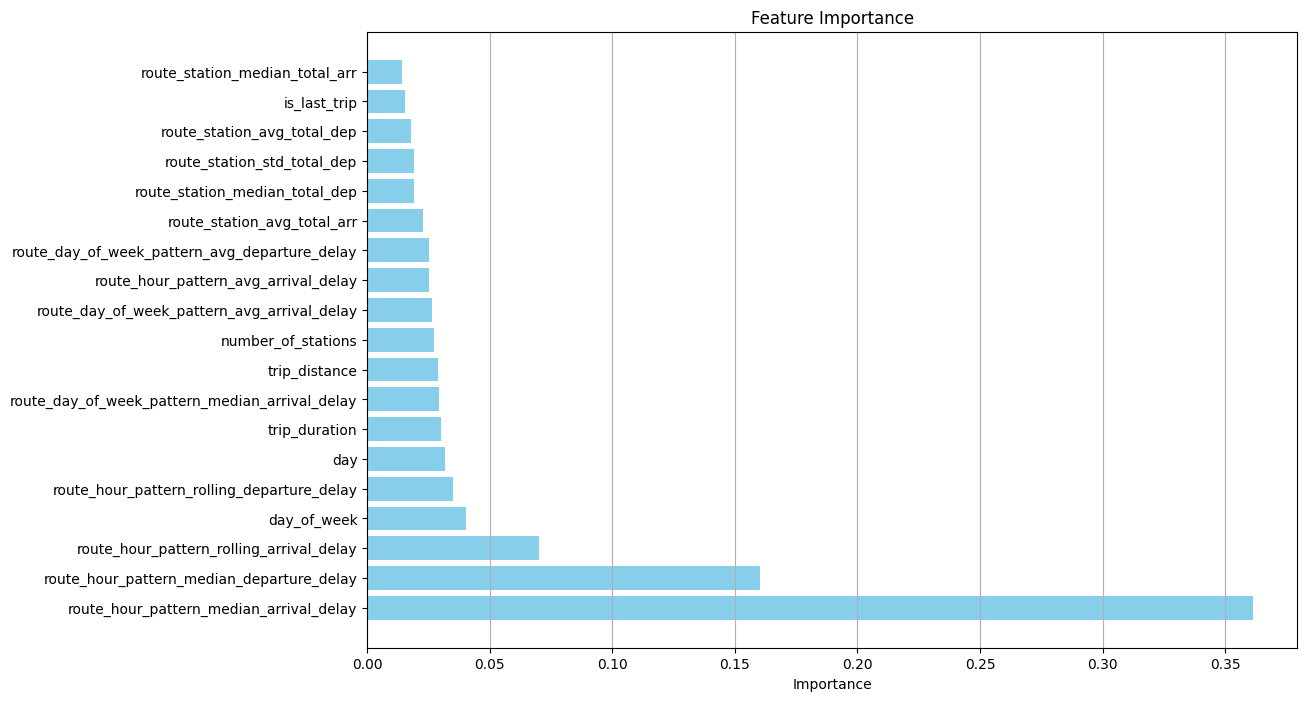
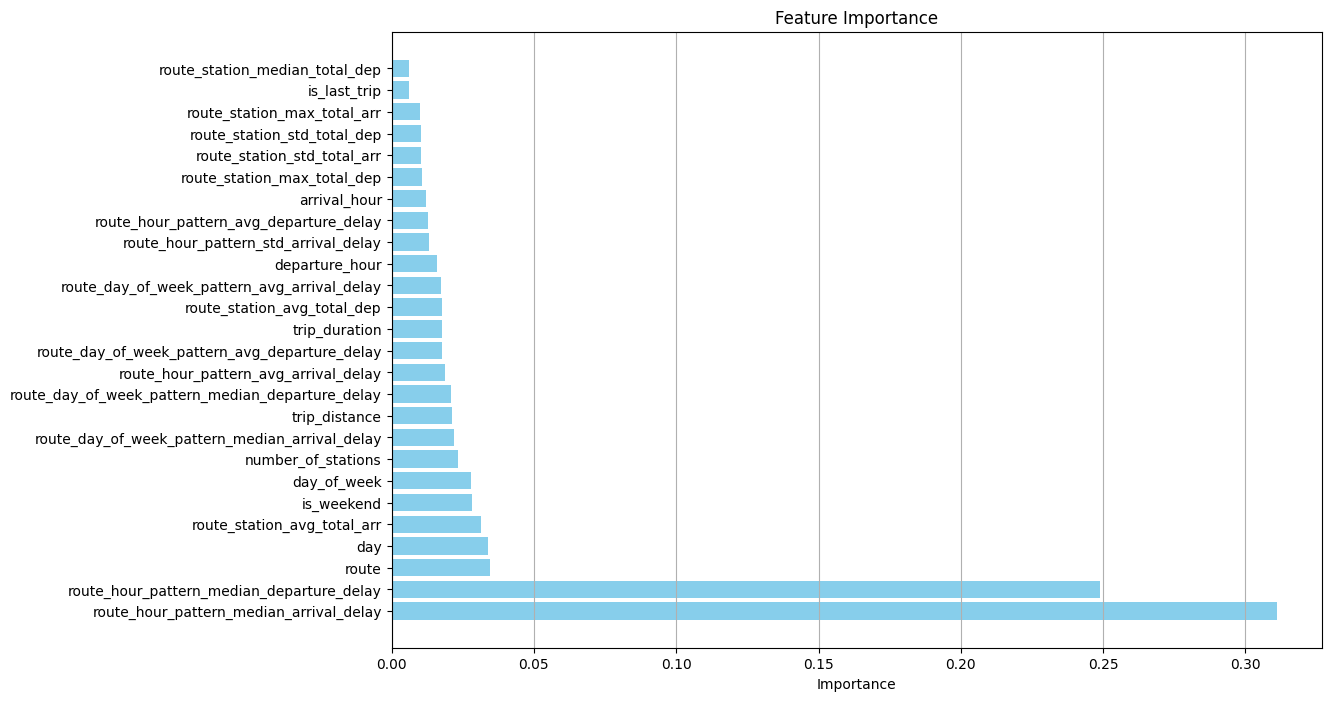
weekly model metrics update - 09/11/2025

diff --git a/README.md b/README.md
@@ -120,10 +120,10 @@ Our machine learning model is trained on historical train data and achieves:
 
 | Metric | Value |
 |--------|-------|
-| **R² Score** | 0.911 |
-| **Mean Absolute Error** | 2.56 minutes |
-| **Features Used** | 25 |
-| **Training Samples** | 263,248  |
+| **R² Score** | 0.852 |
+| **Mean Absolute Error** | 3.62 minutes |
+| **Features Used** | 26 |
+| **Training Samples** | 321,269  |
 | **Model Version** | v1.0 |
 > Model metrics history: [experiments/README.md](./experiments/README.md)
 

diff --git a/experiments/README.md b/experiments/README.md
@@ -10,3 +10,4 @@
 | v1.0 | 2025-09-28 | 248,084 | 23 | 132 | 29.58 | 0.939 | 2.68 |
 | v1.0 | 2025-10-08 | 263,248 | 25 | 142 | 37.70 | 0.911 | 2.56 |
 | v1.0 | 2025-10-20 | 278,409 | 19 | 151 | 44.19 | 0.895 | 2.74 |
+| v1.0 | 2025-11-12 | 321,269 | 26 | 174 | 63.14 | 0.852 | 3.62 |
